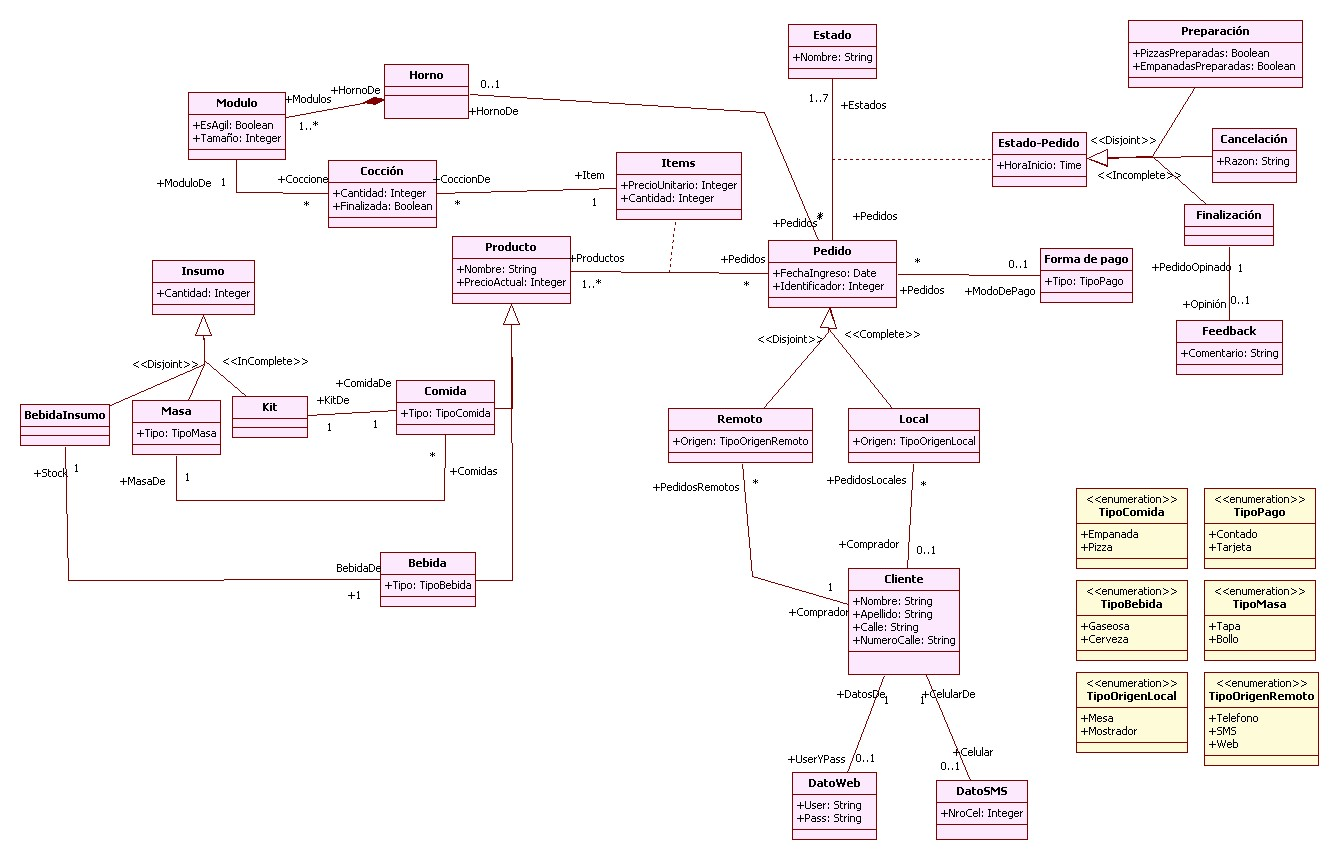
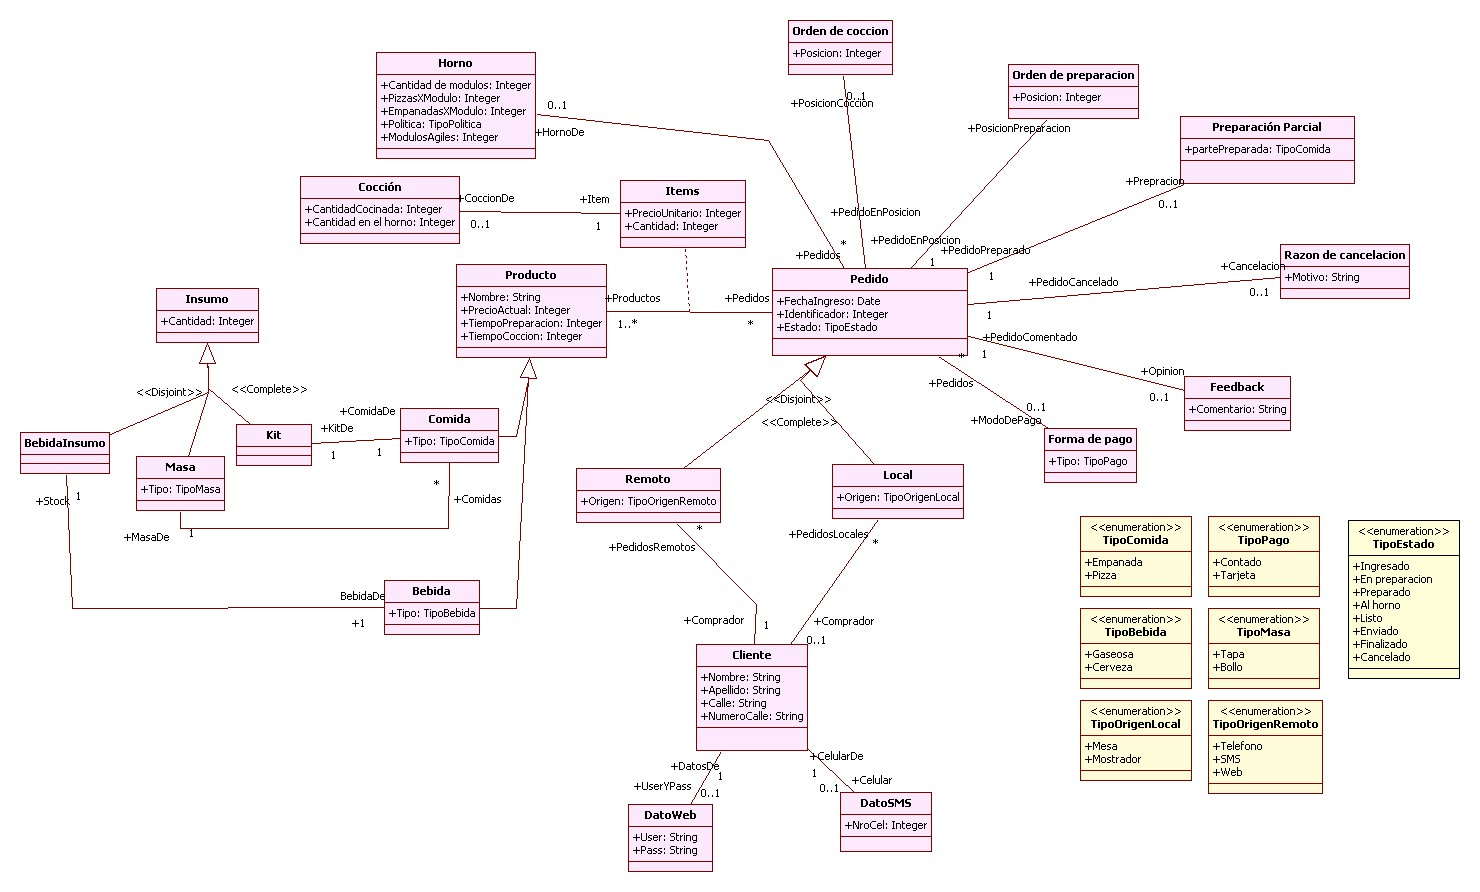
cambie el diagrama de conceptos, una caca

diff --git a/tp1/informe/conceptos.tex b/tp1/informe/conceptos.tex
@@ -6,6 +6,8 @@
 \includegraphics[height=16cm]{conceptos}
 \end{figure}
 \end{landscape}
+En el diagrama lo que observamos primeramente es que los pedidos son el concepto principal. Un pedido tiene una fecha de ingreso, un identificador unico en el sistema, y un estado. El pedido esta asociado a varios productos (Pizzas de muzzarella, napolitana, empanadas de carne, coca cola), y lleva una cierta cantidad de cada uno de ellos. Ademas estos productos se ligaron al pedido con un precio particular, que no necesariamente es el precio actual ya que los precios pueden cambiar.
+Segun el estado que posea un pedido, esta relacionado con diferentes clases conceptuales
 \subsection{Diccionario de datos} %TODO: no se q es
 
 \subsection{Restricciones al MC en OCL}
